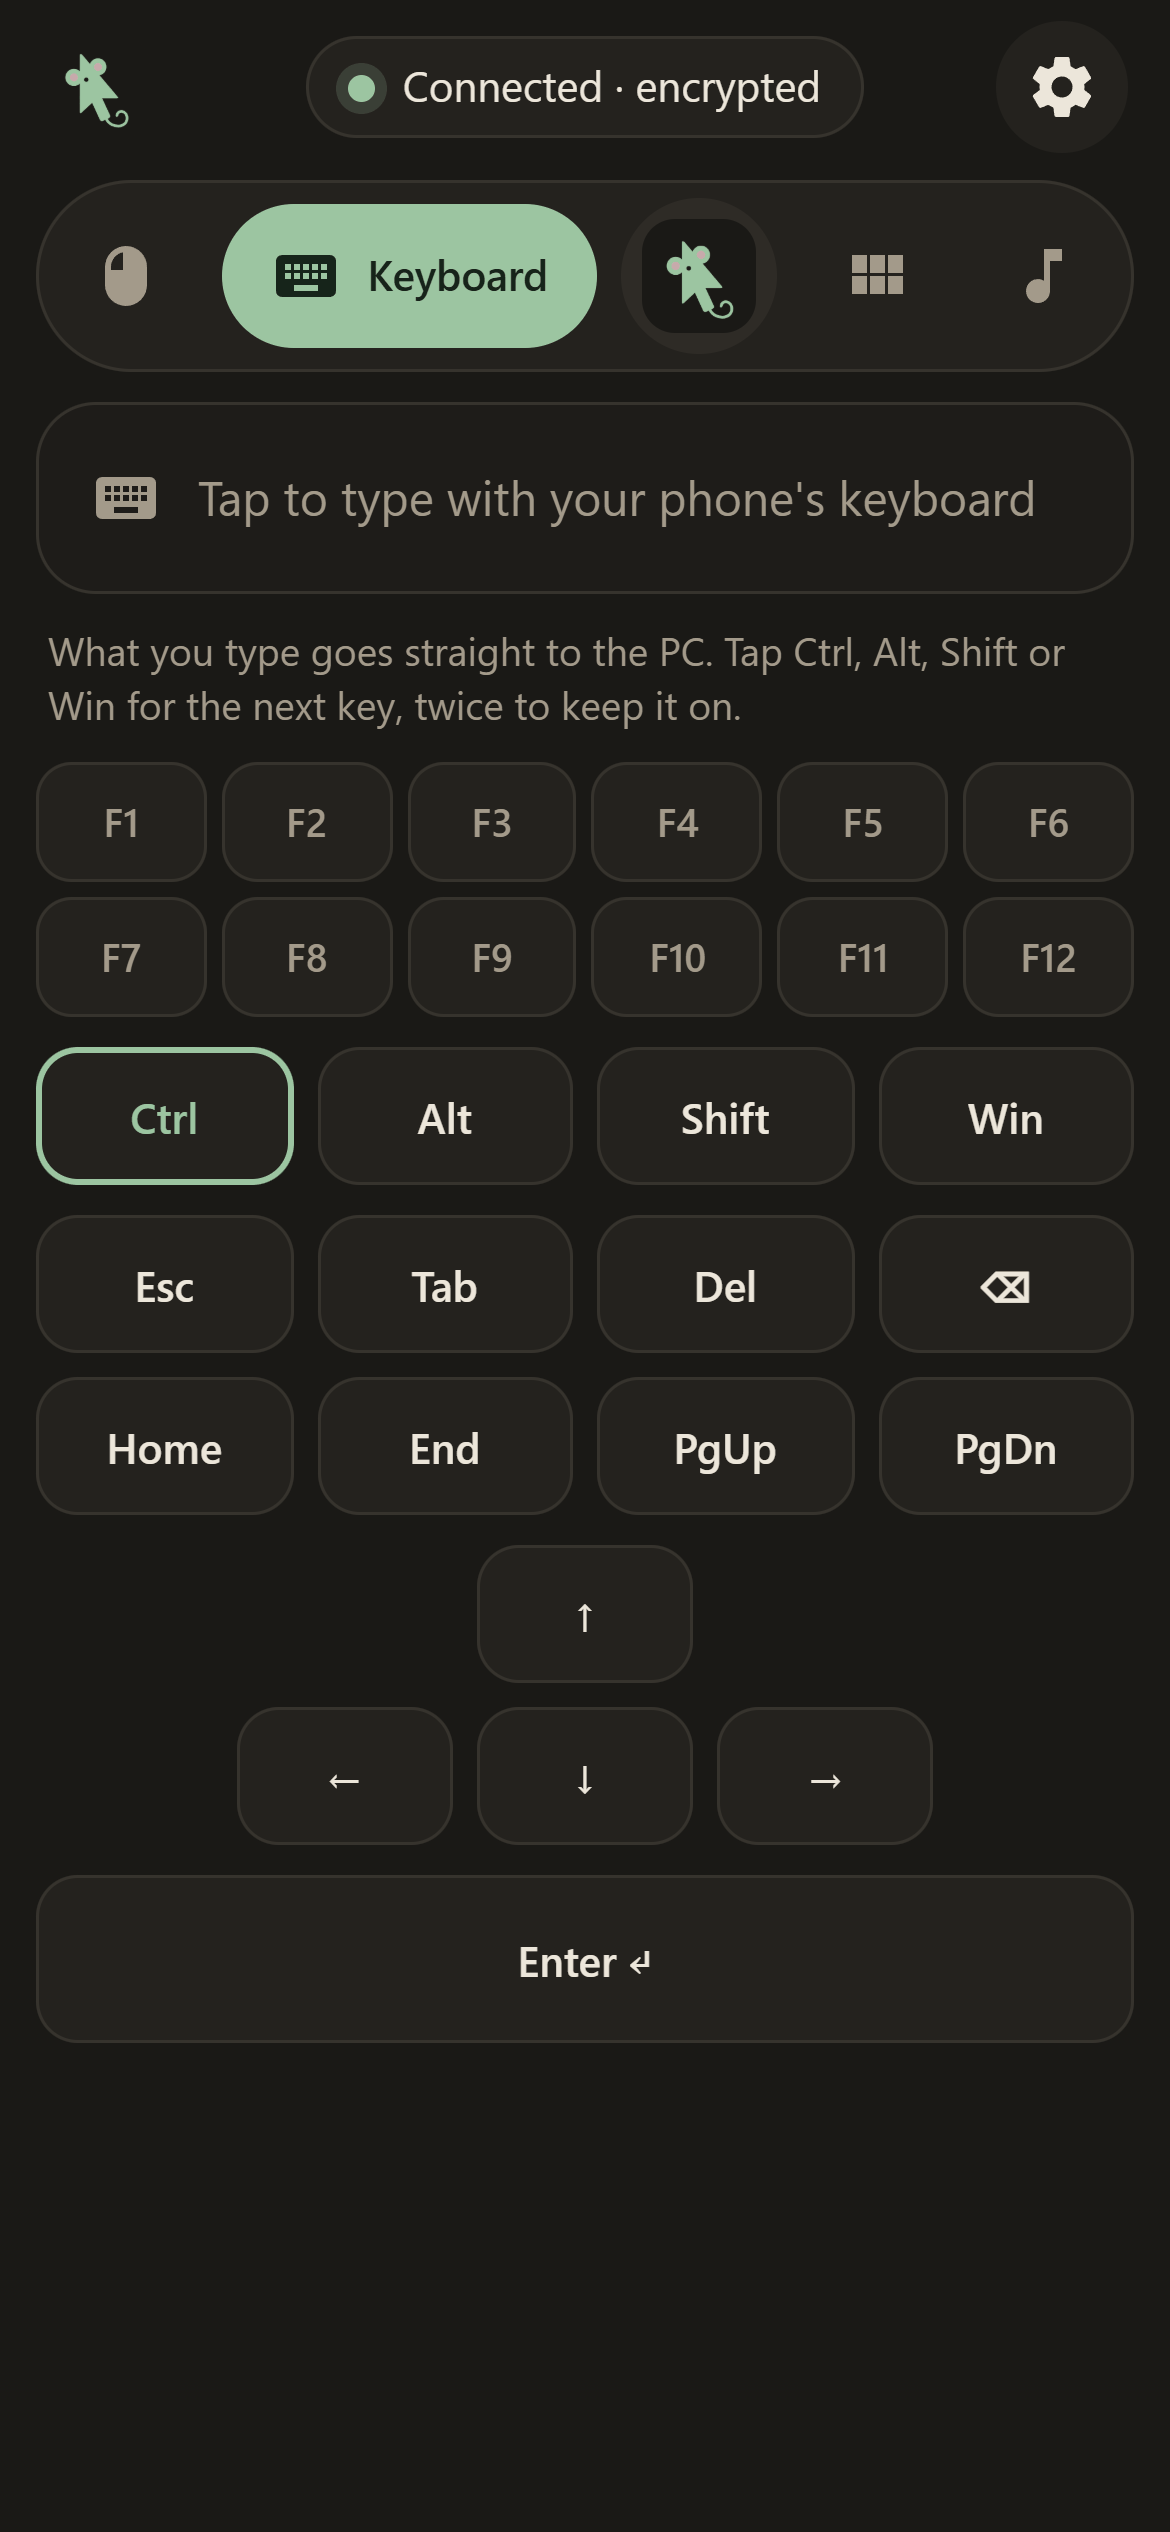
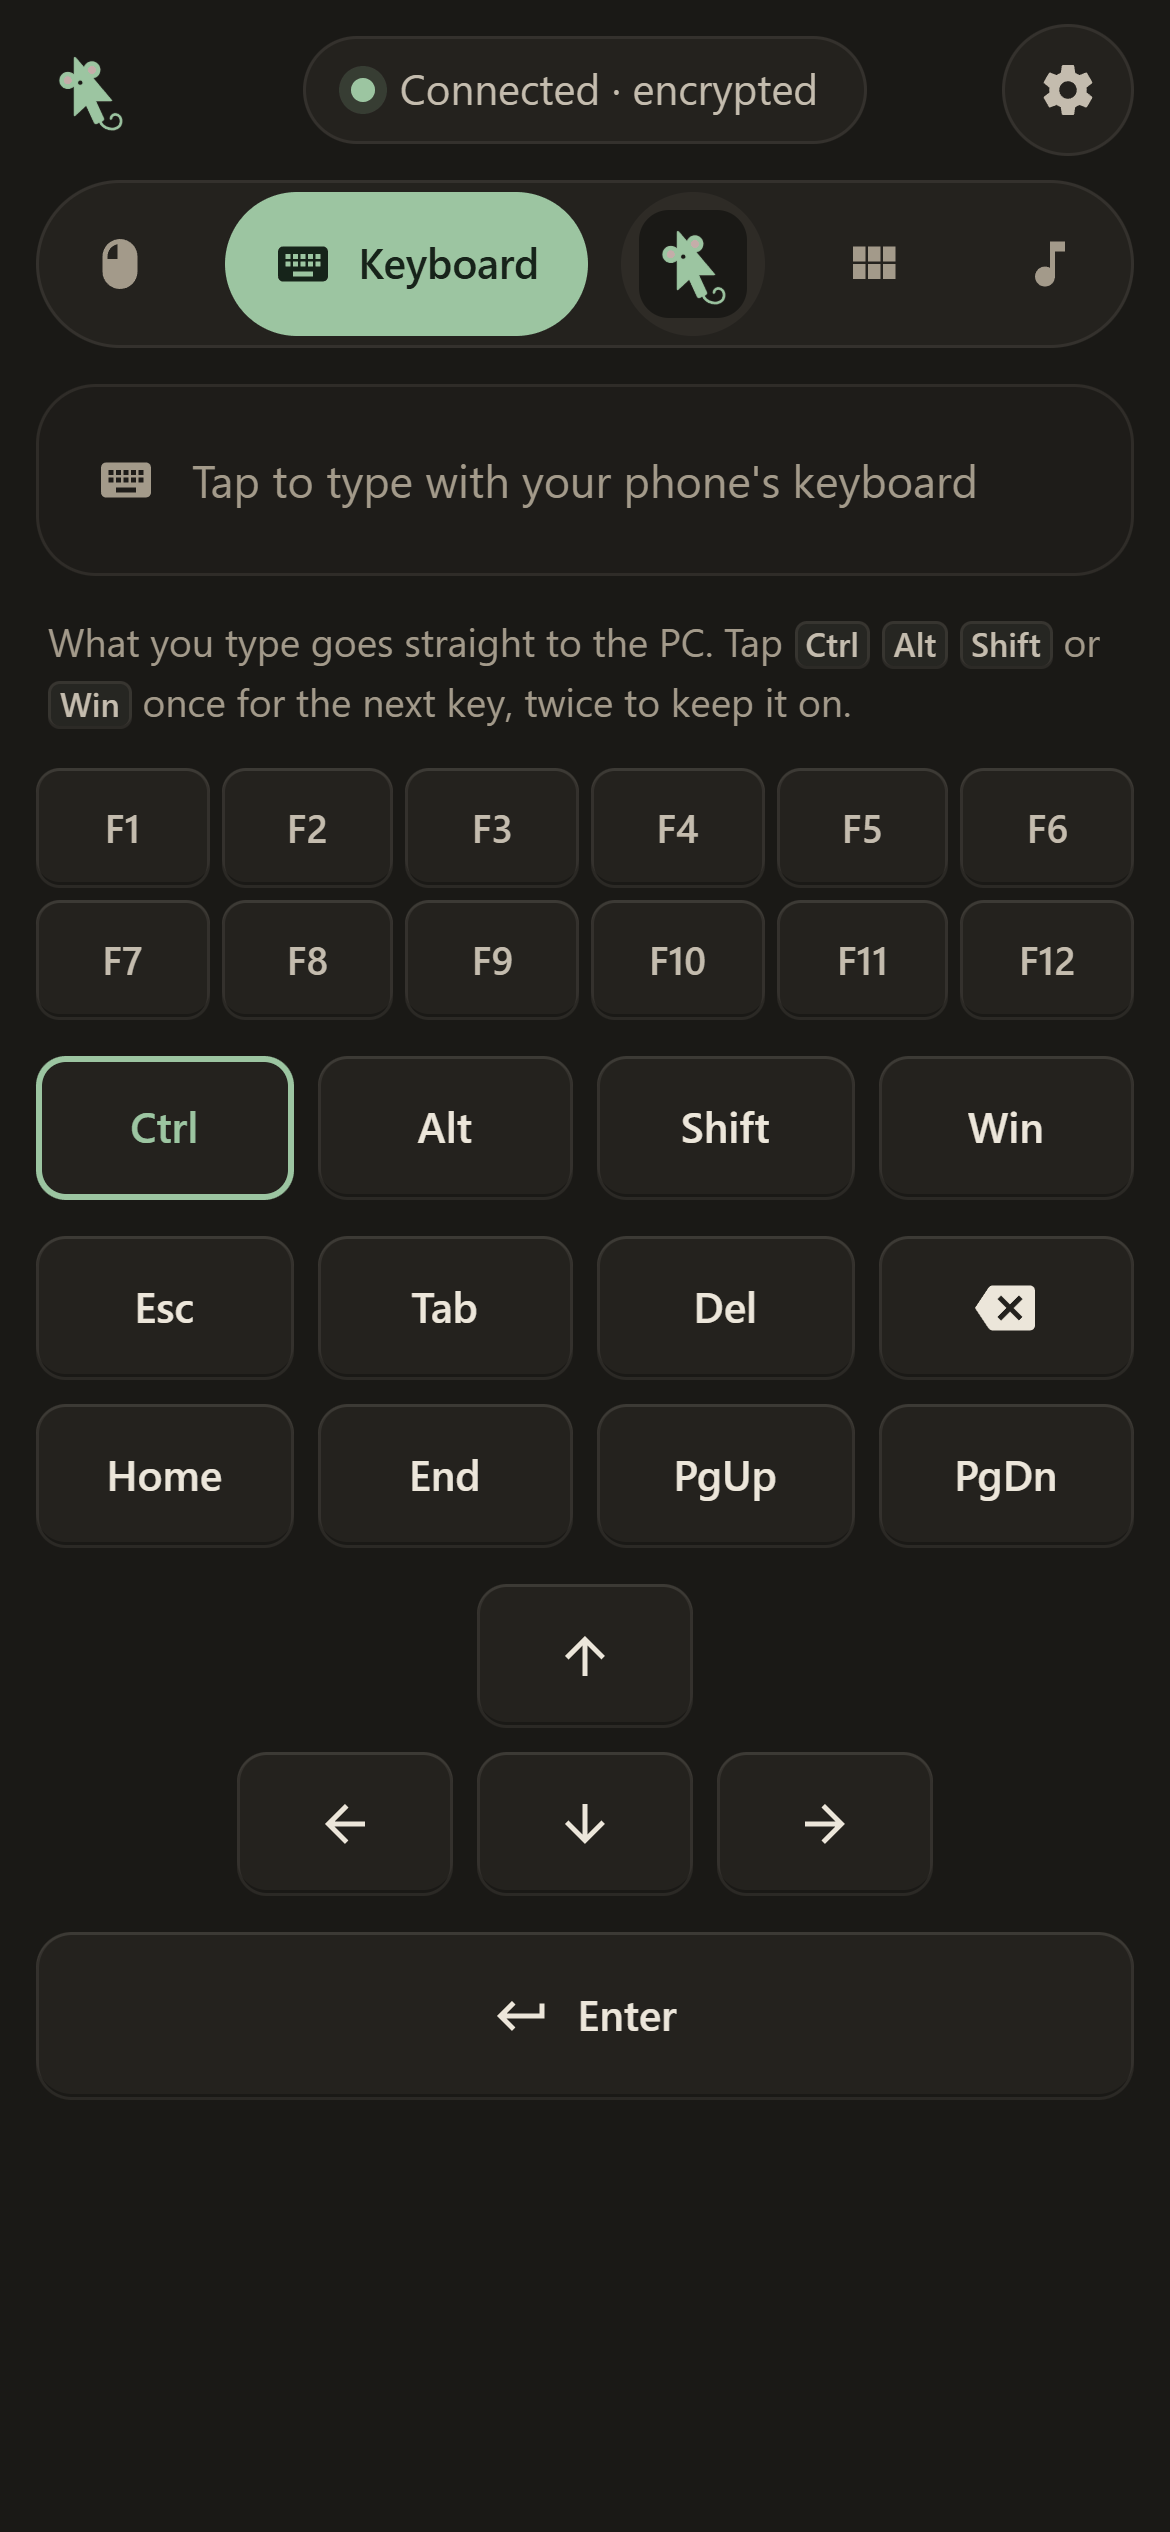
Version 2.0.1: README images with the new design

diff --git a/server/__init__.py b/server/__init__.py
@@ -1,3 +1,3 @@
 """Mousette PC server."""
 
-__version__ = "2.0.0"
+__version__ = "2.0.1"

diff --git a/README.md b/README.md
@@ -89,7 +89,7 @@ Trackpad, keyboard, your own buttons and media controls for your Windows PC, on 
 <tr>
 <td width="50%" align="center" valign="top">
 
-<img src="docs/screenshot-deck.png" width="260" alt="Deck tab: buttons for Search, Alt+Tab, Desktop, New tab, Reopen tab, Close tab, Screenshot and Add button">
+<img src="docs/screenshot-deck.png" width="260" alt="Deck tab: buttons for Search, Alt+Tab, Desktop, New tab, Reopen tab, Close tab, Screenshot and Add button, each showing its keys">
 
 **Deck**<br>
 <sub>Your own buttons: a shortcut, a piece of text, a website or an app, with your own name, icon and colour. Saved on the PC, so every phone gets them.</sub>
@@ -97,7 +97,7 @@ Trackpad, keyboard, your own buttons and media controls for your Windows PC, on 
 </td>
 <td width="50%" align="center" valign="top">
 
-<img src="docs/screenshot-media.png" width="260" alt="Media tab: previous, play/pause, next, rewind, fullscreen, forward, volume down, mute, volume up">
+<img src="docs/screenshot-media.png" width="260" alt="Media tab: a record in the accent color, then previous, play/pause, next, rewind, fullscreen, forward, volume down, mute, volume up">
 
 **Media**<br>
 <sub>Play/pause, next and previous track, rewind and forward, fullscreen and volume, for music and videos on the PC.</sub>
@@ -209,7 +209,7 @@ To control admin windows such as Task Manager, the On-Screen Keyboard and instal
 
 ```
 ==============================================
-  Mousette 2.0.0 is running
+  Mousette 2.0.1 is running
   Open on your phone:    http://192.168.1.23
   iPhone/iPad also:      http://mousette.local
   PIN:                  482915
